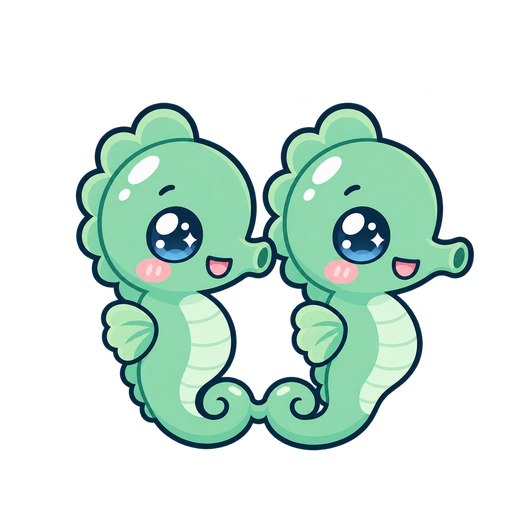
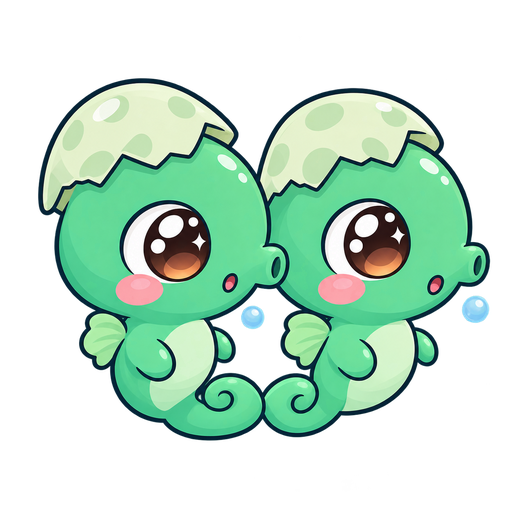
물속에 떠 있는 장식 5종 추가(해파리 삼형제, 잠수부 2, 잠수함, 탐사 로봇), 투투 아기 그림 교체
- 상점에 '🫧 물속' 칸, 떠 있는 장식은 어항에서 둥실둥실 흔들림
- 보관함에서 톡 누르면 물속 장식은 어항 중간 높이에 놓임

diff --git a/src/graphics/decorFloat.js b/src/graphics/decorFloat.js
@@ -1,0 +1,84 @@
+// 물속에 둥실 떠 있는 장식 (w = 가로 px). 어항에서는 위아래로 천천히 흔들려요.
+
+const svg = (w, vw, vh, body) =>
+  `<svg width="${Math.round(w)}" height="${Math.round((w * vh) / vw)}" viewBox="0 0 ${vw} ${vh}" fill="none" xmlns="http://www.w3.org/2000/svg">${body}</svg>`;
+
+const OUT = '#0F2A3A';
+
+// 투명 부표에 줄로 매달린 꼬마 잠수부 (오른쪽을 보고 헤엄쳐요)
+function diver(w, suit, dark) {
+  return svg(w, 120, 110, `
+    <path d="M60 26 V44" stroke="#fff" stroke-width="1.5" opacity=".8"/>
+    <circle cx="60" cy="15" r="12" fill="#fff" fill-opacity=".45" stroke="#fff" stroke-width="2"/>
+    <ellipse cx="55" cy="10" rx="4" ry="5" fill="#fff" opacity=".9"/>
+    <g stroke="${OUT}" stroke-width="2.5" stroke-linejoin="round">
+      <path d="M38 60 L14 58 M38 66 L16 72" stroke="${suit}" stroke-width="10" stroke-linecap="round"/>
+      <path d="M16 52 L2 48 L6 64 Z M18 66 L4 70 L12 82 Z" fill="#FFD23C"/>
+      <rect x="36" y="38" width="30" height="13" rx="6.5" fill="#FFD23C"/>
+      <ellipse cx="56" cy="62" rx="24" ry="13" fill="${suit}"/>
+      <path d="M72 64 L92 74" stroke="${suit}" stroke-width="9" stroke-linecap="round"/>
+      <circle cx="94" cy="75" r="5" fill="#FFD9B8"/>
+      <circle cx="84" cy="50" r="14" fill="${suit}"/>
+      <circle cx="90" cy="54" r="8" fill="#FFD9B8" stroke="none"/>
+      <rect x="82" y="42" width="18" height="11" rx="4" fill="#BFEFFF" stroke="#FF7A3D" stroke-width="3"/>
+      <circle cx="96" cy="62" r="3.5" fill="#9AA7B0"/>
+    </g>
+    <path d="M58 58 Q60 52 66 54" stroke="${dark}" stroke-width="2" opacity=".5"/>
+    <ellipse cx="86" cy="45" rx="2.5" ry="1.5" fill="#fff"/>
+    <circle cx="104" cy="52" r="3" fill="#fff" fill-opacity=".6" stroke="#fff"/><circle cx="109" cy="42" r="2" fill="#fff" fill-opacity=".6" stroke="#fff"/>`);
+}
+
+export const createDiverBlueSVG = (w) => diver(w, '#3B7DD8', '#1F4F99');
+export const createDiverPinkSVG = (w) => diver(w, '#F28AB8', '#C0588A');
+
+// 노란 꼬마 잠수함 (프로펠러가 돌아요)
+export function createSubmarineSVG(w) {
+  return svg(w, 120, 84, `
+    <g stroke="${OUT}" stroke-width="2.5" stroke-linejoin="round">
+      <path d="M66 20 V8 H76" stroke-width="4" stroke-linecap="round"/>
+      <rect x="48" y="18" width="26" height="18" rx="6" fill="#FFC53D"/>
+      <g class="prop-spin"><ellipse cx="12" cy="52" rx="4" ry="14" fill="#9AA7B0"/></g>
+      <rect x="14" y="48" width="10" height="8" rx="2" fill="#9AA7B0"/>
+      <ellipse cx="62" cy="52" rx="42" ry="24" fill="#FFD23C"/>
+      <path d="M30 70 Q62 84 96 66" stroke="#D69A12" stroke-width="3" fill="none"/>
+      <circle cx="46" cy="50" r="8" fill="#8EE3F5"/><circle cx="66" cy="50" r="8" fill="#8EE3F5"/><circle cx="86" cy="50" r="8" fill="#8EE3F5"/>
+    </g>
+    <g fill="#fff" opacity=".85"><circle cx="43" cy="47" r="2.5"/><circle cx="63" cy="47" r="2.5"/><circle cx="83" cy="47" r="2.5"/></g>
+    <circle cx="68" cy="53" r="2" fill="${OUT}"/><path d="M62 54 l-3 -2 v4 z" fill="#FF8C1A"/>
+    <ellipse cx="40" cy="36" rx="12" ry="4" fill="#fff" opacity=".5"/>`);
+}
+
+// 꼬마 해파리 삼형제 (둥실둥실)
+export function createJellyTrioSVG(w) {
+  const jelly = (x, y, s, c, l) => `
+    <g transform="translate(${x} ${y}) scale(${s})">
+      <g stroke="${c}" stroke-width="3" stroke-linecap="round" fill="none"><path d="M-10 4 q-4 8 0 16"/><path d="M-3 4 q4 9 0 18"/><path d="M4 4 q-4 9 0 18"/><path d="M11 4 q4 8 0 16"/></g>
+      <path d="M-16 5 Q-16 -16 0 -16 Q16 -16 16 5 Q8 9 0 5 Q-8 9 -16 5Z" fill="${l}" stroke="${OUT}" stroke-width="2.2" stroke-linejoin="round"/>
+      <ellipse cx="-7" cy="-9" rx="4" ry="2.5" fill="#fff" opacity=".8"/>
+      <circle cx="-5" cy="-3" r="1.8" fill="${OUT}"/><circle cx="5" cy="-3" r="1.8" fill="${OUT}"/>
+      <path d="M-2 1 q2 2 4 0" stroke="${OUT}" stroke-width="1.4" fill="none" stroke-linecap="round"/>
+    </g>`;
+  return svg(w, 120, 100, `
+    ${jelly(30, 58, 1.1, '#E0508A', '#FFB3CF')}
+    ${jelly(64, 30, 1.35, '#8A7FD8', '#CFC8F7')}
+    ${jelly(96, 62, 0.95, '#2FA88A', '#A8F0DA')}`);
+}
+
+// 꼬마 탐사 로봇 (앞에 불빛)
+export function createRobotSVG(w) {
+  return svg(w, 120, 90, `
+    <path d="M92 40 L120 26 V70 L92 56 Z" fill="#FFF3B0" opacity=".45"/>
+    <g stroke="${OUT}" stroke-width="2.5" stroke-linejoin="round">
+      <path d="M56 22 V10" stroke-linecap="round"/><circle cx="56" cy="8" r="4" fill="#FF6B6B"/>
+      <rect x="10" y="30" width="14" height="30" rx="6" fill="#9AA7B0"/>
+      <rect x="22" y="22" width="68" height="48" rx="16" fill="#FF8C1A"/>
+      <rect x="30" y="58" width="52" height="8" rx="4" fill="#fff"/>
+      <circle cx="62" cy="44" r="15" fill="#fff"/>
+      <circle cx="62" cy="44" r="9" fill="#2B3A55"/>
+      <rect x="86" y="38" width="10" height="20" rx="4" fill="#FFE08A"/>
+      <path d="M30 78 L40 70 M82 70 L92 78" stroke-width="4" stroke-linecap="round"/>
+    </g>
+    <circle cx="65" cy="41" r="3" fill="#fff"/>
+    <ellipse cx="38" cy="30" rx="8" ry="3" fill="#fff" opacity=".45"/>
+    <circle cx="96" cy="48" r="7" fill="#FFE08A" opacity=".5" class="twinkle"/>`);
+}

diff --git a/src/data/shop.js b/src/data/shop.js
@@ -1,12 +1,14 @@
-// 상점 목록: 장식 25종 + 어항 배경 4종. need = 부화시킨 친구 수 조건
+// 상점 목록: 장식 30종 + 어항 배경 4종. need = 부화시킨 친구 수 조건
 import { createSeaweedSVG, createCoralSVG, createTreasureChestSVG, createSeabedPebblesSVG } from '../graphics/decorations.js';
 import * as more from '../graphics/decorMore.js';
+import * as floating from '../graphics/decorFloat.js';
 
 export const SHOP_TABS = [
   { id: 'plant', label: '🌿 식물' },
   { id: 'rock', label: '🪸 산호·돌' },
   { id: 'prop', label: '🏰 소품' },
   { id: 'special', label: '✨ 특별' },
+  { id: 'float', label: '🫧 물속' },
   { id: 'theme', label: '🎨 배경' },
   { id: 'care', label: '💊 돌보기' }
 ];
@@ -39,7 +41,14 @@ export const SHOP_ITEMS = [
   { type: 'clam', cat: 'special', name: '진주 조개', cost: 25, size: 8, need: 1, draw: more.createClamSVG },
   { type: 'bubbler', cat: 'special', name: '거품 기계', cost: 30, size: 5, need: 1, draw: more.createBubblerSVG },
   { type: 'jellyLamp', cat: 'special', name: '해파리 등불', cost: 35, size: 6, need: 2, draw: more.createJellyLampSVG },
-  { type: 'crystal', cat: 'special', name: '반짝 수정', cost: 50, size: 9, need: 3, draw: more.createCrystalSVG }
+  { type: 'crystal', cat: 'special', name: '반짝 수정', cost: 50, size: 9, need: 3, draw: more.createCrystalSVG },
+
+  // 물속에 떠 있는 장식 (float: 어항에서 둥실둥실 흔들려요)
+  { type: 'jellyTrio', cat: 'float', float: true, name: '꼬마 해파리 삼형제', cost: 15, size: 12, draw: floating.createJellyTrioSVG },
+  { type: 'diverBlue', cat: 'float', float: true, name: '꼬마 잠수부 (파랑)', cost: 20, size: 15, draw: floating.createDiverBlueSVG },
+  { type: 'diverPink', cat: 'float', float: true, name: '꼬마 잠수부 (분홍)', cost: 20, size: 15, draw: floating.createDiverPinkSVG },
+  { type: 'submarine', cat: 'float', float: true, name: '노란 잠수함', cost: 35, size: 14, need: 1, draw: floating.createSubmarineSVG },
+  { type: 'robot', cat: 'float', float: true, name: '탐사 로봇', cost: 40, size: 12, need: 2, draw: floating.createRobotSVG }
 ];
 
 export const THEMES = [

diff --git a/src/scenes/HomeScene.js b/src/scenes/HomeScene.js
@@ -8,13 +8,14 @@ import { createFoodSVG, createFoodCanSVG, createPoopSVG } from '../graphics/food
 import { openDecorShop, openDex, openRequests, hearts, openCard } from './overlays.js';
 import { REQUESTS, LOVE_PERKS, ANNIVERSARIES, GIFT_PRIZES, josa, hasBatchim } from '../data/care.js';
 import confetti from 'canvas-confetti';
-import { decorSVG } from '../data/shop.js';
+import { decorSVG, SHOP_ITEMS } from '../data/shop.js';
 import { Swimmer, PROFILES } from '../core/swim.js';
 import { GuestManager } from './guests.js';
 
 // 장식이 놓일 수 있는 높이 (어항 바닥에서 %)
 const MIN_B = 2;
 const MAX_B = 70;
+const isFloating = (type) => SHOP_ITEMS.find((it) => it.type === type)?.float;
 const CLEAN_COST = 3;
 
 // 돌봐야 할 일이 있으면 게임 추천보다 먼저 알려줘요
@@ -389,7 +390,7 @@ export class HomeScene {
     const layer = this.el.querySelector('.decor-layer');
     layer.innerHTML = '';
     for (const d of store.data.decorations.filter((it) => it.placed)) {
-      const item = h(`<div class="decor" data-type="${d.type}" style="left:${d.x}%;bottom:${Math.max(MIN_B, d.b)}%">${decorSVG(d.type, this.u)}</div>`);
+      const item = h(`<div class="decor${isFloating(d.type) ? ' floating' : ''}" data-type="${d.type}" style="left:${d.x}%;bottom:${Math.max(MIN_B, d.b)}%">${decorSVG(d.type, this.u)}</div>`);
       item.addEventListener('pointerdown', (e) => {
         if (!this.decorating) return;
         e.stopPropagation();
@@ -453,7 +454,8 @@ export class HomeScene {
       tray.classList.remove('drop-here');
       const overTray = isOver(ev);
       if (fromTray && !moved) {
-        store.placeDecoration(id, 50, 30);
+        const d = store.data.decorations.find((it) => it.id === id);
+        store.placeDecoration(id, 50, isFloating(d.type) ? 50 : 30);
         sound.playStar();
       } else if (overTray) {
         store.storeDecoration(id);

diff --git a/src/styles/main.css b/src/styles/main.css
@@ -192,6 +192,11 @@ button.pill { cursor: pointer; }
 .tray-item { flex: none; min-width: calc(var(--u) * 9); height: calc(var(--u) * 9); display: flex; align-items: flex-end; justify-content: center; background: #E6F4F8; border-radius: calc(var(--u) * 1.4); padding: calc(var(--u) * 0.6); cursor: grab; touch-action: none; }
 .tray-item svg { max-height: 100%; width: auto; }
 .tray-empty { color: var(--muted); font-size: calc(var(--u) * 1.9); align-self: center; }
+.decor.floating > svg { animation: floatBob 4.5s ease-in-out infinite; }
+.decor.floating:nth-child(2n) > svg { animation-duration: 5.5s; animation-delay: -2s; }
+.decor.dragging > svg { animation: none; }
+@keyframes floatBob { 0%, 100% { transform: translateY(0) rotate(-2deg); } 50% { transform: translateY(calc(var(--u) * -1.6)) rotate(2deg); } }
+.prop-spin { transform-box: fill-box; transform-origin: center; animation: flap .35s linear infinite alternate; }
 .decor.dragging { cursor: grabbing; filter: drop-shadow(0 calc(var(--u) * 0.8) calc(var(--u) * 0.6) rgba(0, 0, 0, .3)); z-index: 5; }
 .tank { position: absolute; left: 0; right: 0; top: calc(var(--u) * 8); bottom: 0; pointer-events: none; }
 .fish { position: absolute; left: 0; top: 0; cursor: pointer; will-change: transform; pointer-events: auto; }
